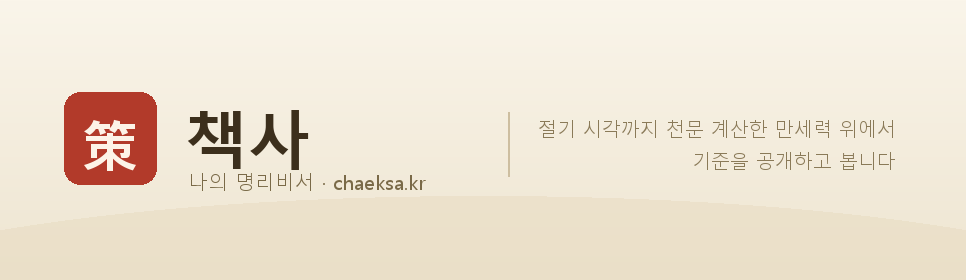
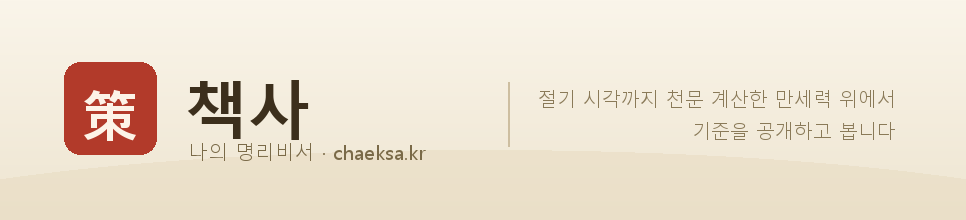
블로그 대문을 220px로 줄인다
280으로 뽑았더니 글자 아래로 100px 가까이 비어 첫 화면에서 본문이 밀렸다.
대문은 인상만 남기고 빨리 비켜야 한다. 실물로 확인하고 줄였다.

diff --git a/tools_og.py b/tools_og.py
@@ -193,24 +193,26 @@ def blog_title():
     글자를 그림에 구워 넣고 '블로그 제목 표시'는 꺼야 한다 — 안 그러면
     스킨 글꼴로 쓴 제목이 그림 위에 한 번 더 얹힌다.
     """
-    W, H = 966, 280
+    # 높이는 220. 처음 280으로 뽑았더니 글자 아래로 100px 가까이 비어
+    # 첫 화면에서 본문이 밀렸다. 대문은 인상만 남기고 빨리 비켜야 한다.
+    W, H = 966, 220
     base = vgrad((W, H), BG_TOP, BG_BOTTOM)
 
     # 아래쪽 한지 결 — og 그림과 같은 손짓이어야 한 사람이 만든 것으로 보인다
     band = Image.new('RGBA', (W, H), (0, 0, 0, 0))
-    ImageDraw.Draw(band).ellipse([-200, 196, W + 200, H + 150],
+    ImageDraw.Draw(band).ellipse([-200, 150, W + 200, H + 130],
                                  fill=(230, 217, 189, 120))
     base = Image.alpha_composite(base.convert('RGBA'), band).convert('RGB')
     d = ImageDraw.Draw(base)
 
     # 인장
-    d.rounded_rectangle([64, 92, 156, 184], radius=16, fill=SEAL)
+    d.rounded_rectangle([64, 62, 156, 154], radius=16, fill=SEAL)
     f = font('malgunbd.ttf', 56)
-    d.text((110 - d.textlength('策', font=f) / 2, 106), '策',
+    d.text((110 - d.textlength('策', font=f) / 2, 76), '策',
            font=f, fill=(253, 243, 231))
 
-    d.text((186, 96), '책사', font=font('malgunbd.ttf', 62), fill=INK)
-    d.text((188, 168), '나의 명리비서 · chaeksa.kr',
+    d.text((186, 66), '책사', font=font('malgunbd.ttf', 62), fill=INK)
+    d.text((188, 138), '나의 명리비서 · chaeksa.kr',
            font=font('malgun.ttf', 20), fill=INK2)
 
     # 오른쪽 한 줄 — 무엇을 파는 블로그인지 여기서 끝낸다
@@ -219,10 +221,10 @@ def blog_title():
     widest = max(d.textlength(t, font=f2) for t in lines)
     for i, t in enumerate(lines):
         w = d.textlength(t, font=f2)
-        d.text((W - 70 - w, 116 + i * 32), t, font=f2, fill=(138, 122, 88))
+        d.text((W - 70 - w, 86 + i * 32), t, font=f2, fill=(138, 122, 88))
     # 구분선은 글 덩어리 왼쪽에 세운다. 오른쪽에 두면 글이 잘린 것처럼 보인다.
     x = W - 70 - widest - 30
-    d.line([x, 112, x, 176], fill=(205, 190, 160), width=2)
+    d.line([x, 82, x, 146], fill=(205, 190, 160), width=2)
 
     out = os.path.join(os.path.dirname(APP), 'marketing', '블로그-대문.png')
     base.save(out, 'PNG', optimize=True)
